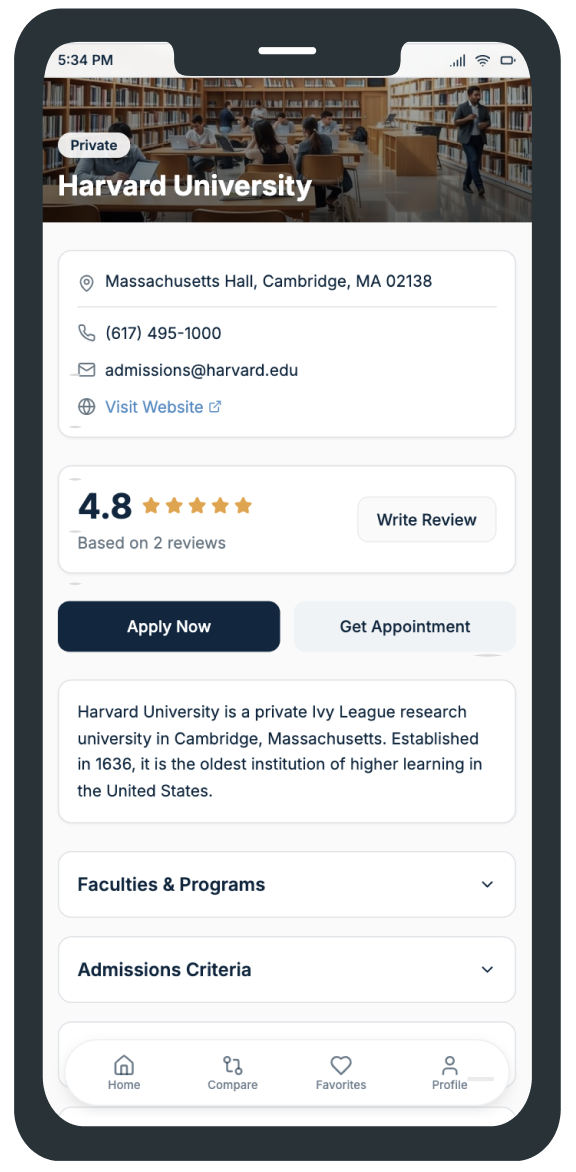
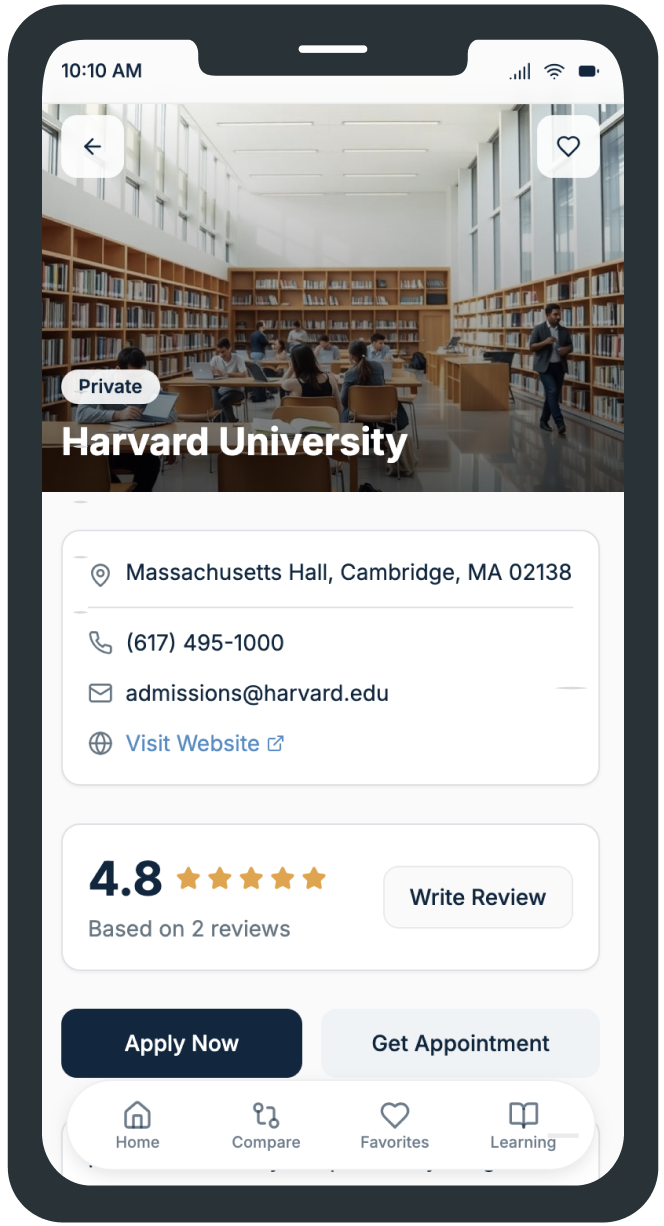
add info for Edu project

diff --git a/app/components/School/School.tsx b/app/components/School/School.tsx
@@ -5,6 +5,7 @@ import MoreProjects from "../MoreProjects";
 const School: React.FC = () => {
   return (
     <main className="bg-white text-[#1A1A1A] min-h-screen px-6 py-24 flex justify-center flex-col items-center">
+      {/* ✅ WRAPPER START */}
       <div className="max-w-3xl w-full space-y-20">
         {/* Introduction */}
         <section>
@@ -36,9 +37,7 @@ const School: React.FC = () => {
             </div>
             <div>
               <h3 className="text-xl font-semibold mb-4">Team</h3>
-              <p className="text-gray-600 leading-relaxed">
-                2 UX/UI Designers
-              </p>
+              <p className="text-gray-600 leading-relaxed">2 UX/UI Designers</p>
             </div>
             <div>
               <h3 className="text-xl font-semibold mb-4">Timeline</h3>
@@ -53,161 +52,222 @@ const School: React.FC = () => {
           <h3 className="text-2xl font-medium mb-4 font-fraunces">
             Students Struggle to Compare Universities Quickly and Confidently.
           </h3>
-          <p className="text-lg leading-relaxed">
+          <p className="text-lg leading-relaxed mb-10">
             Students, especially international applicants, struggle to build a
-            short list because information is scattered and interfaces are
-            noisy. They need a clear path from discovery to comparison to taking
-            action (apply or book an appointment).
-          </p>
-        </section>
-      </div>
-
-      {/* User Research */}
-      <section className="bg-[#DBE6FF] px-12 md:px-20 py-20 rounded-3xl mt-20 mx-[-3rem] w-full max-w-6xl">
-        <div className="px-6 md:px-0 max-w-3xl mx-auto">
-          <h2 className="text-2xl md:text-3xl font-bold mb-6">User Research</h2>
-          <p className="text-lg leading-relaxed mb-12 text-[#1A1A1A]/80">
-            Through surveys and interviews with international students, we
-            discovered key challenges in the university search and admission
-            journey. Most users felt overwhelmed by scattered information,
-            unclear comparisons, and lack of guidance in finding universities
-            that match their academic and financial profiles. These insights
-            helped us shape EduUSA as a simple, guided, and confident experience
-            for choosing the right university.
+            short list because information is scattered and interfaces are noisy.
+            They need a clear path from discovery to comparison to taking action
+            (apply or book an appointment).
           </p>
 
-          <h3 className="text-2xl font-semibold mb-12">Findings</h3>
-
-          <div className="grid grid-cols-1 md:grid-cols-2 gap-16 items-start">
-            {/* Finding 1 */}
-            <div className="flex flex-col items-center text-center space-y-5">
-            <div className="w-[220px] h-[220px] bg-[#DBE6FF] flex items-center justify-center rounded-2xl overflow-hidden">
-                <Image
-                  src="/images/scho1.png"
-                  alt="Customizing is inconvenient and manual"
-                  width={220}
-                  height={220}
-                  className="object-contain w-full h-full"
-                />
-              </div>
-              <h4 className="text-lg font-bold">
-                1. Students struggle to find universities that match their
-                goals.
-              </h4>
-              <p className="text-base text-[#1A1A1A]/80 max-w-md">
-                “I don’t know which universities actually fit my grades, budget,
-                or career plans. There are so many sites, and none really guide
-                me clearly.”
-              </p>
-            </div>
-
-            {/* Finding 2 */}
-            <div className="flex flex-col items-center text-center space-y-5">
-              <div className="w-[220px] h-[220px] bg-[#DBE6FF] flex items-center justify-center rounded-2xl overflow-hidden">
-                <Image
-                  src="/images/scho2.png"
-                  alt="Customizing is inconvenient and manual"
-                  width={220}
-                  height={220}
-                  className="object-contain w-full h-full"
-                />
-              </div>
-              <h4 className="text-lg font-bold">
-                2. Comparing options feels confusing and time-consuming.
-              </h4>
-              <p className="text-base text-[#1A1A1A]/80 max-w-md">
-                “Every site shows rankings or random lists, but I can’t easily
-                compare tuition, scholarships, and admission criteria in one
-                place.”
-              </p>
-            </div>
+          {/* Centered Image */}
+          <div className="flex justify-center mt-12">
+            <Image
+              src="/images/problemSchool.png"
+              alt="Students comparing universities on EduUSA"
+              width={800}
+              height={500}
+              className="rounded-2xl object-contain max-w-full"
+            />
           </div>
+        </section>
+        {/* Our Solution */} 
+        <section className="mt-20"> <h2 className="text-2xl font-bold mb-4">Our Solution</h2> 
+        <h3 className="text-2xl font-medium mb-4 font-fraunces"> A Calm, Mobile-First Experience for Fast, Confident 
+        Comparison. </h3> <p className="text-lg leading-relaxed mb-12"> EduUSA introduces a simplified mobile experience
+         that lets users search, filter, and compare universities in just a few steps. Home / Discover: search + quick 
+         filters + scannable cards Compare: select two universities → compact metrics table Accessibility: WCAG AA 
+         contrast, 44px touch targets, focus states The MVP focuses on reducing cognitive load and helping users make 
+         confident choices faster. 
+         </p> 
+         <div className="flex flex-col md:flex-row justify-center items-center gap-8 mt-12">
+  
+  <div className="flex flex-col items-center">
+    <Image
+      src="/images/Harvard.png"
+      alt="Before design"
+      width={250}
+      height={350}
+      className="object-contain rounded-3xl drop-shadow-md"
+    />
+  </div>
 
-          {/* Insights */}
-          <section className="mt-20">
-            <h3 className="text-2xl font-semibold mb-12">Insights</h3>
+  
+  <div className="flex flex-col items-center">
+    <Image
+      src="/images/comparsion.png"
+      alt="After design"
+      width={250}
+      height={350}
+      className="object-contain rounded-3xl drop-shadow-md "
+    />
+  </div>
+</div>
 
-            <div className="flex flex-col space-y-10">
-              <div className="flex items-start space-x-6">
-                
+         </section>
+
+        {/* User Research */}
+       
+        <section className="bg-[#DBE6FF] px-8 md:px-16 py-16 rounded-3xl mt-20 w-full max-w-none mx-0">
+          <div className="px-6 md:px-0 max-w-3xl mx-auto">
+            <h2 className="text-2xl md:text-3xl font-bold mb-6">User Research</h2>
+            <p className="text-lg leading-relaxed mb-12 text-[#1A1A1A]/80">
+              Through surveys and interviews with international students, we
+              discovered key challenges in the university search and admission
+              journey. Most users felt overwhelmed by scattered information,
+              unclear comparisons, and lack of guidance in finding universities
+              that match their academic and financial profiles. These insights
+              helped us shape EduUSA as a simple, guided, and confident experience
+              for choosing the right university.
+            </p>
+
+            <h3 className="text-2xl font-semibold mb-12">Findings</h3>
+
+            <div className="grid grid-cols-1 md:grid-cols-2 gap-16 items-start">
+              {/* Finding 1 */}
+              <div className="flex flex-col items-center text-center space-y-5">
+                <div className="w-[220px] h-[220px] bg-[#DBE6FF] flex items-center justify-center rounded-2xl overflow-hidden">
+                  <Image
+                    src="/images/scho1.png"
+                    alt="Finding 1"
+                    width={220}
+                    height={220}
+                    className="object-contain w-full h-full"
+                  />
+                </div>
+                <h4 className="text-lg font-bold">
+                  1. Students struggle to find universities that match their goals.
+                </h4>
+                <p className="text-base text-[#1A1A1A]/80 max-w-md">
+                  “I don’t know which universities actually fit my grades, budget,
+                  or career plans. There are so many sites, and none really guide
+                  me clearly.”
+                </p>
+              </div>
+
+              {/* Finding 2 */}
+              <div className="flex flex-col items-center text-center space-y-5">
+                <div className="w-[220px] h-[220px] bg-[#DBE6FF] flex items-center justify-center rounded-2xl overflow-hidden">
+                  <Image
+                    src="/images/scho2.png"
+                    alt="Finding 2"
+                    width={220}
+                    height={220}
+                    className="object-contain w-full h-full"
+                  />
+                </div>
+                <h4 className="text-lg font-bold">
+                  2. Comparing options feels confusing and time-consuming.
+                </h4>
+                <p className="text-base text-[#1A1A1A]/80 max-w-md">
+                  “Every site shows rankings or random lists, but I can’t easily
+                  compare tuition, scholarships, and admission criteria in one
+                  place.”
+                </p>
+              </div>
+            </div>
+
+            {/* Insights */}
+            <div className="mt-20">
+              <h3 className="text-2xl font-semibold mb-12">Insights</h3>
+              <div className="flex flex-col space-y-10">
                 <p className="text-lg leading-relaxed text-[#1A1A1A]/90">
                   Lack of centralised, guided information makes the decision
                   process overwhelming, reducing user trust and engagement.
                 </p>
-              </div>
-
-              <div className="flex items-start space-x-6">
-                
                 <p className="text-lg leading-relaxed text-[#1A1A1A]/90">
                   Complex comparisons slow users down and increase dropout rates;
                   simplifying key metrics on cards and tables builds clarity.
                 </p>
               </div>
             </div>
-          </section>
-        </div>
-      </section>
-        {/* HighFidelity */}
-      <div className="max-w-3xl w-full space-y-20">
+          </div>
+        </section>
+        {/* Usability Testing */}
+<section className="mt-20">
+  <h2 className="text-2xl font-bold mb-4">Usability Testing</h2>
+  <p className="text-lg leading-relaxed mb-10">
+    During usability testing, we observed that users often tried to access the Learning section directly 
+    from the bottom navigation rather than through the Menu. 
+    Based on this insight, we replaced the Profile tab with a direct Learning shortcut, 
+    improving accessibility and making educational content easier to discover.
+  </p>
+
+  {/* Usability Test Image */}
+  <div className="flex justify-center mt-10">
+    <Image
+      src="/images/usabilityTestEdu.png"
+      alt="Usability test results for EduUSA navigation redesign"
+      width={800}
+      height={500}
+      className="rounded-2xl object-contain max-w-full drop-shadow-md"
+    />
+  </div>
+</section>
+
+
+        {/* High Fidelity */}
         <section className="mt-20">
-          <h2 className="text-2xl font-bold mb-4">High Fidility</h2>
+          <h2 className="text-2xl font-bold mb-4">High Fidelity</h2>
           <p className="text-lg leading-relaxed mb-12">
-          University Details | Guest Profile
+            University Details | Learning
           </p>
         </section>
-      </div>
-      {/* Three centered images */}
-<section className="flex flex-col md:flex-row justify-center items-center gap-10 mt-20">
-  <div className="flex justify-center">
+
+       {/* Three centered images */}
+<section className="flex flex-col md:flex-row justify-center items-start md:items-center gap-10 md:gap-14 mt-20">
+  <div className="flex justify-center md:justify-start">
     <Image
       src="/images/Harvard.png"
       alt="Harvard screen"
       width={320}
       height={640}
-      className="object-contain "
+      className="object-contain rounded-3xl drop-shadow-xl"
     />
   </div>
-  <div className="flex justify-center">
+  <div className="flex justify-center md:justify-start">
     <Image
       src="/images/continueHarvard.png"
-      alt="Continue Harvard screen"
+      alt="Continue Harvard"
       width={320}
       height={640}
-      className="object-contain "
+      className="object-contain rounded-3xl drop-shadow-xl"
     />
   </div>
-  <div className="flex justify-center">
+  <div className="flex justify-center md:justify-start">
     <Image
-      src="/images/profile.png"
-      alt="Profile screen"
+      src="/images/learning.png"
+      alt="Learning screen"
       width={320}
       height={640}
-      className="object-contain "
+      className="object-contain rounded-3xl drop-shadow-xl"
     />
   </div>
 </section>
-      {/* Takeaway */}
-      <div className="max-w-3xl w-full space-y-20">
+
+
+        {/* Impact */}
         <section className="mt-20">
           <h2 className="text-2xl font-bold mb-4">Impact (Early Signals)</h2>
           <p className="text-lg leading-relaxed mb-12">
-          The initial release showed a noticeable increase in engagement with university cards and detail buttons (example: +X%).
-During internal testing, the average navigation time to the comparison table dropped to under Y seconds — a promising indicator 
-of improved efficiency.(Metrics will be updated after external validation.)
+            The initial release showed a noticeable increase in engagement with university cards and detail buttons (example: +X%).
+            During internal testing, the average navigation time to the comparison table dropped to under Y seconds, a promising
+            indicator of improved efficiency. (Metrics will be updated after external validation.)
           </p>
         </section>
-      </div>
-      <div className="max-w-3xl w-full space-y-20">
+
+        {/* Learnings & Next Steps */}
         <section className="mt-20">
           <h2 className="text-2xl font-bold mb-4">Learnings & Next Steps</h2>
           <p className="text-lg leading-relaxed mb-12">
-          Minimal cards and a clear comparison table reduce cognitive load, helping users make faster decisions.
-A guest-first approach lowers entry barriers, while transparent value messaging encourages account creation.
-Next steps include connecting to real university data, enabling preference storage, and running A/B tests to refine CTA clarity.
+            Minimal cards and a clear comparison table reduce cognitive load, helping users make faster decisions.
+            A guest-first approach lowers entry barriers, while transparent value messaging encourages account creation.
+            Next steps include connecting to real university data, enabling preference storage, and running A/B tests to refine CTA clarity.
           </p>
         </section>
-      </div>
-      <MoreProjects current="/project/school" />
+
+        {/* More Projects */}
+        <MoreProjects current="/project/school" />
+      </div> {/* ✅ close wrapper */}
     </main>
   );
 };
